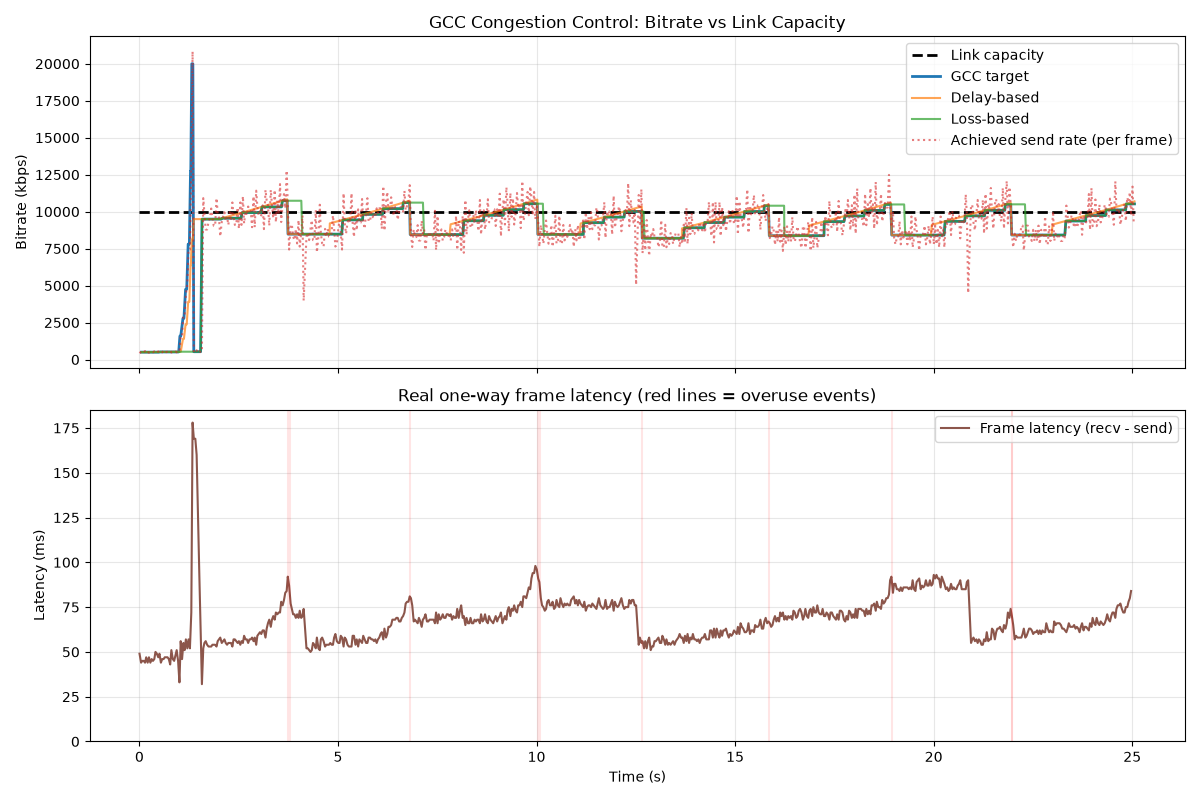
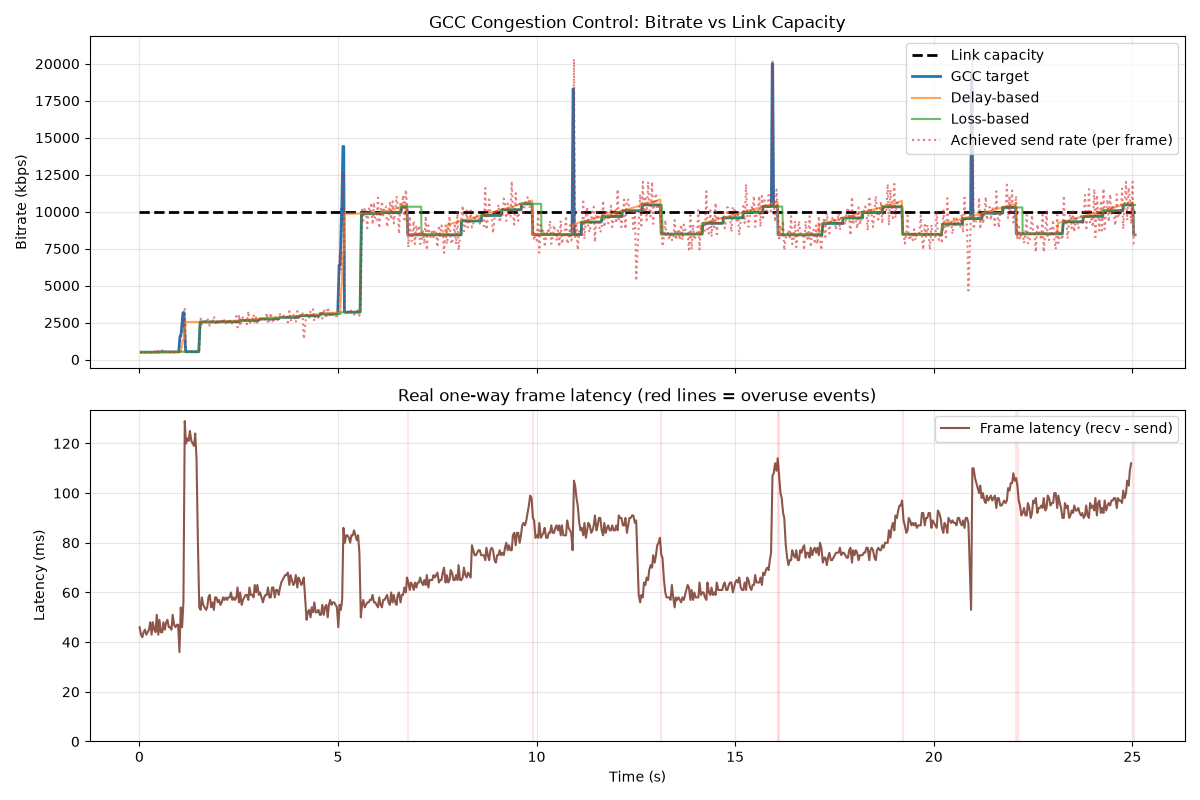
Align probe controller with WebRTC: seed cluster + bounded periodic re-probe
The previous change (removing the chain cap) made GCC converge fast but wrong:
the chain doubled off link-capped probe measurements (probe 12732 -> measures
~10000 -> chains to 2x = 20000 -> sends 20 Mbps into a 10 Mbps pipe), flooding
the bottleneck, triggering overuse, and collapsing to ~3 Mbps followed by a
slow recovery. Net: severe queueing and a saw that defeated the point of
probing. Compared against docs/webrtc_reference, WebRTC instead jumps once to
~4 Mbps, climbs via AIMD for ~5s, then re-probes with a SHORT chain to ~9 Mbps.

Three root causes, all in bandwidth_prober.cc:

1. Chain ran off a link-capped measurement with no hop bound. Padding fills
   every probe to 100%, so probes always measured the full link rate and the
   0.7 ratio never fell enough to stop the chain until we were already past
   the cap.
2. Seeds compounded: the 6x seed used the estimate already committed by the 3x
   seed, so 3x/6x became two near-cap jumps instead of a 3x/6x cluster.
3. No periodic re-probe. Post-seed discovery relied on WebRTC ALR probing,
   which never fires for a greedy (mock/CBR) encoder that is never
   application-limited — so convergence stalled on 8%/s AIMD.

Fixes:
- ProbeType {kSeed, kPeriodic, kDropRecovery}. Only periodic/recovery probes
  chain; seed probes commit and hand off to AIMD (restores the intent of the
  initial_probing_done_ gate my prior commit wrongly removed).
- Chain bounded to kMaxChainHops (2) per probe session, so one probe cannot
[…]

diff --git a/transmission/bandwidth_prober.cc b/transmission/bandwidth_prober.cc
@@ -19,6 +19,10 @@ BandwidthProber::BandwidthProber()
       max_bitrate_kbps_(30000),
       initial_probing_done_(false),
       exponential_probe_count_(0),
+      seed_base_kbps_(0),
+      current_probe_type_(ProbeType::kSeed),
+      chain_hops_(0),
+      last_periodic_probe_ms_(0),
       application_limited_(false),
       last_alr_probe_ms_(0),
       pre_drop_bitrate_kbps_(0),
@@ -32,6 +36,7 @@ BandwidthProber::BandwidthProber()
       fake_clock_ms_(nullptr) {
   int64_t now = NowMs();
   last_alr_probe_ms_ = now;
+  last_periodic_probe_ms_ = now;
   bitrate_drop_time_ms_ = now;
   probe_start_ms_ = now;
   last_overuse_time_ms_ = now;
@@ -45,6 +50,7 @@ void BandwidthProber::SetClockForTesting(int64_t* clock_ms) {
   if (clock_ms) {
     int64_t now = *clock_ms;
     last_alr_probe_ms_ = now;
+    last_periodic_probe_ms_ = now;
     bitrate_drop_time_ms_ = now;
     probe_start_ms_ = now;
     last_overuse_time_ms_ = now - 2000;  // allow probing immediately in tests
@@ -122,26 +128,28 @@ void BandwidthProber::OnProbeResult(int estimated_kbps, bool success) {
     LOG(INFO) << "[Prober] Probe succeeded: target=" << probe_target_kbps_
               << " estimated=" << estimated_kbps << " kbps";
 
-    // Continue the exponential chain as long as the measured rate keeps
-    // clearing the further-probe threshold and there is still headroom below
-    // the ceiling. This is NOT gated on initial_probing_done_ (matching
-    // WebRTC's SetEstimatedBitrate chain): the 3x/6x seed probes only bootstrap
-    // discovery; the chain that follows must keep doubling from each measured
-    // rate until the link saturates (ratio < threshold) or we approach max.
-    // Gating it on initial_probing_done_ was what capped convergence at the
-    // seed probes and forced the slow 8%/s AIMD ramp the rest of the way.
-    // (A low-ratio result here does NOT end initial probing: the sequential
-    // 6x seed in MaybeInitiateProbe still gets its turn — only an outright
-    // probe failure, handled below, stops the seeds.)
+    // Chaining rule (aligned with the WebRTC reference curve):
+    //   - Seed probes (3x/6x startup cluster) do NOT chain. They commit their
+    //     measured rate and hand control to AIMD, which is why the reference
+    //     jumps once to ~4 Mbps at startup and then climbs slowly — rather than
+    //     chaining straight to the ceiling and flooding the link.
+    //   - Periodic / drop-recovery probes MAY chain, but only up to
+    //     kMaxChainHops hops. Bounding the hop count stops a single probe
+    //     session from doubling all the way to 2x the link capacity (the
+    //     runaway that caused the overuse->collapse->slow-recovery cycle).
     double ratio = static_cast<double>(estimated_kbps) / probe_target_kbps_;
-    if (ratio >= kFurtherProbeThreshold &&
+    bool chainable = (current_probe_type_ != ProbeType::kSeed);
+    if (chainable && chain_hops_ < kMaxChainHops &&
+        ratio >= kFurtherProbeThreshold &&
         estimated_kbps < max_bitrate_kbps_ * 0.95) {
+      chain_hops_++;
       probe_target_kbps_ = std::min(
           estimated_kbps * kFurtherProbeMultiplier, max_bitrate_kbps_);
       state_ = State::kProbing;
       probe_start_ms_ = NowMs();
       pending_probes_.push_back({probe_target_kbps_, next_cluster_id_++});
-      LOG(INFO) << "[Prober] Further probe at " << probe_target_kbps_ << " kbps";
+      LOG(INFO) << "[Prober] Further probe (" << chain_hops_ << "/"
+                << kMaxChainHops << ") at " << probe_target_kbps_ << " kbps";
     }
 
     bitrate_drop_detected_ = false;
@@ -149,7 +157,11 @@ void BandwidthProber::OnProbeResult(int estimated_kbps, bool success) {
   } else {
     LOG(INFO) << "[Prober] Probe failed or no improvement: target="
               << probe_target_kbps_ << " estimated=" << estimated_kbps;
-    initial_probing_done_ = true;
+    // A failed seed still ends initial probing (hand off to AIMD); a failed
+    // periodic/recovery probe just returns to AIMD until the next interval.
+    if (current_probe_type_ == ProbeType::kSeed) {
+      initial_probing_done_ = true;
+    }
   }
 }
 
@@ -223,7 +235,20 @@ void BandwidthProber::MaybeInitiateProbe() {
     }
   }
 
-  // 3. ALR periodic probing
+  // 3. Periodic re-probing. After initial probing, search for headroom every
+  //    kPeriodicProbeIntervalMs — independent of the ALR flag, which never
+  //    fires for a greedy (mock/CBR) encoder. This is what drives convergence
+  //    up to the cap after the seed cluster + AIMD, mirroring WebRTC where an
+  //    ALR-limited real encoder gets a periodic probe on the same cadence.
+  if (estimated_bitrate_kbps_ <
+      max_bitrate_kbps_ * kPeriodicProbeMaxEstimateFraction) {
+    if (now - last_periodic_probe_ms_ >= kPeriodicProbeIntervalMs) {
+      InitiatePeriodicProbe();
+      return;
+    }
+  }
+
+  // 4. ALR periodic probing
   if (application_limited_) {
     if (now - last_alr_probe_ms_ >= kAlrProbeIntervalMs) {
       InitiateAlrProbe();
@@ -232,15 +257,42 @@ void BandwidthProber::MaybeInitiateProbe() {
   }
 }
 
+void BandwidthProber::InitiatePeriodicProbe() {
+  probe_target_kbps_ = std::min(
+      static_cast<int>(estimated_bitrate_kbps_ * kPeriodicProbeMultiplier),
+      max_bitrate_kbps_);
+
+  if (probe_target_kbps_ <= estimated_bitrate_kbps_) {
+    last_periodic_probe_ms_ = NowMs();
+    return;
+  }
+
+  current_probe_type_ = ProbeType::kPeriodic;
+  chain_hops_ = 0;
+  state_ = State::kProbing;
+  probe_start_ms_ = NowMs();
+  last_periodic_probe_ms_ = probe_start_ms_;
+  pending_probes_.push_back({probe_target_kbps_, next_cluster_id_++});
+
+  LOG(INFO) << "[Prober] Periodic probe at " << probe_target_kbps_
+            << " kbps (est=" << estimated_bitrate_kbps_ << ")";
+}
+
 void BandwidthProber::InitiateExponentialProbe() {
+  // Snapshot the estimate when the seed cluster begins, and take BOTH seeds
+  // off that base. Using the live estimate for the 6x seed would compound: the
+  // 3x probe commits a higher estimate first, so 6x of THAT lands near the
+  // ceiling in two jumps. WebRTC fires 3x and 6x of the same start rate.
+  if (exponential_probe_count_ == 0) {
+    seed_base_kbps_ = estimated_bitrate_kbps_;
+  }
+
   int multiplier = (exponential_probe_count_ == 0)
       ? kFirstExponentialMultiplier
       : kSecondExponentialMultiplier;
 
-  // Exponential startup probes are already proportional to the current estimate
-  // (3×/6×) and chain via measured commits, so they self-limit — no extra cap.
   probe_target_kbps_ = std::min(
-      estimated_bitrate_kbps_ * multiplier, max_bitrate_kbps_);
+      seed_base_kbps_ * multiplier, max_bitrate_kbps_);
 
   if (estimated_bitrate_kbps_ >= max_bitrate_kbps_ * 0.95) {
     initial_probing_done_ = true;
@@ -252,13 +304,15 @@ void BandwidthProber::InitiateExponentialProbe() {
     initial_probing_done_ = true;
   }
 
+  current_probe_type_ = ProbeType::kSeed;
+  chain_hops_ = 0;
   state_ = State::kProbing;
   probe_start_ms_ = NowMs();
   pending_probes_.push_back({probe_target_kbps_, next_cluster_id_++});
 
   LOG(INFO) << "[Prober] Exponential probe #" << exponential_probe_count_
-            << " at " << probe_target_kbps_ << " kbps (est="
-            << estimated_bitrate_kbps_ << ")";
+            << " at " << probe_target_kbps_ << " kbps (seed_base="
+            << seed_base_kbps_ << ")";
 }
 
 void BandwidthProber::InitiateAlrProbe() {
@@ -270,6 +324,8 @@ void BandwidthProber::InitiateAlrProbe() {
     return;
   }
 
+  current_probe_type_ = ProbeType::kPeriodic;
+  chain_hops_ = 0;
   state_ = State::kProbing;
   probe_start_ms_ = NowMs();
   last_alr_probe_ms_ = probe_start_ms_;
@@ -294,6 +350,8 @@ void BandwidthProber::InitiateDropRecoveryProbe() {
     return;
   }
 
+  current_probe_type_ = ProbeType::kDropRecovery;
+  chain_hops_ = 0;
   state_ = State::kProbing;
   probe_start_ms_ = NowMs();
   pending_probes_.push_back({probe_target_kbps_, next_cluster_id_++});

diff --git a/tests/bandwidth_prober_test.cc b/tests/bandwidth_prober_test.cc
@@ -41,20 +41,20 @@ TEST_F(BandwidthProberTest, DoesNotProbeAfterRecentOveruse) {
   EXPECT_EQ(prober.GetState(), BandwidthProber::State::kIdle);
 }
 
-TEST_F(BandwidthProberTest, SuccessfulProbeTriggersNextProbe) {
-  prober.GetEffectiveBitrateKbps();  // 3x probe at 15000
+TEST_F(BandwidthProberTest, SeedProbeDoesNotChain) {
+  // Seed (startup) probes commit their measured rate and hand off to AIMD.
+  // They must NOT fire a further probe even on a strong result — matching the
+  // WebRTC reference, where the initial 3x/6x cluster jumps once and then lets
+  // AIMD climb, rather than chaining straight to the ceiling. (Chaining is
+  // reserved for periodic / drop-recovery probes; see PeriodicProbeChains*.)
+  prober.GetEffectiveBitrateKbps();  // seed #1 at 3x = 15000
   auto probes = prober.GetPendingProbes();
   ASSERT_EQ(probes.size(), 1u);
   EXPECT_EQ(probes[0].target_bitrate_kbps, 15000);
 
-  // Report success: estimated 12000 (12000/15000 = 0.8 > 0.7 threshold)
+  // Strong result 12000/15000 = 0.8 >= 0.7, but a seed still does not chain.
   prober.OnProbeResult(12000, true);
-  // Should trigger further probe at 2x 12000 = 24000
-  EXPECT_EQ(prober.GetState(), BandwidthProber::State::kProbing);
-
-  auto probes2 = prober.GetPendingProbes();
-  ASSERT_EQ(probes2.size(), 1u);
-  EXPECT_EQ(probes2[0].target_bitrate_kbps, 24000);
+  EXPECT_EQ(prober.GetState(), BandwidthProber::State::kIdle);
 }
 
 TEST_F(BandwidthProberTest, SecondExponentialProbeAt6x) {
@@ -87,39 +87,37 @@ TEST_F(BandwidthProberTest, SecondExponentialProbeAt6x) {
   EXPECT_EQ(probes2[0].target_bitrate_kbps, 30000);
 }
 
-TEST_F(BandwidthProberTest, ExponentialChainRunsPastSeedProbesToSaturation) {
-  // Regression: the further-probe chain must keep doubling from each measured
-  // rate until the link saturates or we approach max — it must NOT stop after
-  // the 2 seed probes. Previously initial_probing_done_ (set once the seed
-  // count hit the cap) gated the chain off, capping convergence at the seeds.
+TEST_F(BandwidthProberTest, PeriodicProbeChainsUpToHopCap) {
+  // A periodic probe MAY chain (unlike a seed), but only up to kMaxChainHops
+  // (2) further hops. Bounding the hop count is what stops one probe session
+  // from doubling all the way to 2x the link capacity and flooding the pipe.
   prober.SetMaxBitrate(30000);
-  prober.SetEstimatedBitrate(1000);
+  prober.SetEstimatedBitrate(2000);
+  prober.OnOveruseDetected();  // finish initial probing
 
-  // Seed probe #1 at 3x = 3000.
+  // Trigger the periodic probe: 2x estimate = 4000.
+  AdvanceMs(5100);
   int r = prober.GetEffectiveBitrateKbps();
-  EXPECT_EQ(r, 3000);
+  EXPECT_EQ(r, 4000);
   prober.GetPendingProbes();
-  // Strong result (2700/3000 = 0.9 >= 0.7) → chain to 2x = 5400.
-  prober.OnProbeResult(2700, true);
+
+  // Hop 1: strong result 3600/4000 = 0.9 → chain to 2x = 7200.
+  prober.OnProbeResult(3600, true);
   EXPECT_EQ(prober.GetState(), BandwidthProber::State::kProbing);
   auto p2 = prober.GetPendingProbes();
   ASSERT_EQ(p2.size(), 1u);
-  EXPECT_EQ(p2[0].target_bitrate_kbps, 5400);
+  EXPECT_EQ(p2[0].target_bitrate_kbps, 7200);
 
-  // Chain continues: 4860/5400 = 0.9 → 2x = 9720.
-  prober.OnProbeResult(4860, true);
+  // Hop 2: strong result 6480/7200 = 0.9 → chain to 2x = 12960 (last hop).
+  prober.OnProbeResult(6480, true);
   EXPECT_EQ(prober.GetState(), BandwidthProber::State::kProbing);
   auto p3 = prober.GetPendingProbes();
   ASSERT_EQ(p3.size(), 1u);
-  EXPECT_EQ(p3[0].target_bitrate_kbps, 9720);
+  EXPECT_EQ(p3[0].target_bitrate_kbps, 12960);
 
-  // And again: 8748/9720 = 0.9 → 2x = 17496. This is the 4th probe overall,
-  // well past the old 2-seed cap — proving the chain is uncapped.
-  prober.OnProbeResult(8748, true);
-  EXPECT_EQ(prober.GetState(), BandwidthProber::State::kProbing);
-  auto p4 = prober.GetPendingProbes();
-  ASSERT_EQ(p4.size(), 1u);
-  EXPECT_EQ(p4[0].target_bitrate_kbps, 17496);
+  // Hop cap reached: even a strong result 11664/12960 = 0.9 must NOT chain.
+  prober.OnProbeResult(11664, true);
+  EXPECT_EQ(prober.GetState(), BandwidthProber::State::kIdle);
 }
 
 TEST_F(BandwidthProberTest, ChainStopsWhenLinkSaturates) {
@@ -172,22 +170,23 @@ TEST_F(BandwidthProberTest, NoProbeWhenNearMax) {
   EXPECT_EQ(prober.GetState(), BandwidthProber::State::kIdle);
 }
 
-TEST_F(BandwidthProberTest, AlrProbingAfterInterval) {
-  // Complete initial probing
-  prober.OnOveruseDetected();
+TEST_F(BandwidthProberTest, PeriodicProbingAfterInterval) {
+  // After initial probing completes, the prober re-probes every
+  // kPeriodicProbeIntervalMs at 2x the current estimate — independent of the
+  // ALR flag (a greedy encoder is never application-limited, so ALR alone
+  // would never fire and convergence would stall on AIMD).
+  prober.OnOveruseDetected();  // completes initial probing
+
+  // Not enough time elapsed since the last probe yet.
   AdvanceMs(1100);
-
-  // Enter ALR
-  prober.OnApplicationLimited();
-
-  // Not enough time yet
   int rate = prober.GetEffectiveBitrateKbps();
   EXPECT_EQ(rate, 5000);
+  EXPECT_EQ(prober.GetState(), BandwidthProber::State::kIdle);
 
-  // Advance past ALR interval
+  // Past the periodic interval → probe at 2x = 10000.
   AdvanceMs(5100);
   rate = prober.GetEffectiveBitrateKbps();
-  EXPECT_EQ(rate, 7500);  // 1.5x
+  EXPECT_EQ(rate, 10000);  // 2x estimate
   EXPECT_EQ(prober.GetState(), BandwidthProber::State::kProbing);
 }
 

diff --git a/transmission/bandwidth_prober.h b/transmission/bandwidth_prober.h
@@ -35,6 +35,12 @@ class BandwidthProber {
  public:
   enum class State { kIdle, kProbing, kWaitingForResult };
 
+  // Origin of the currently active probe. Only kPeriodic/kDropRecovery probes
+  // are allowed to chain (fire a further probe from their result); the kSeed
+  // startup probes commit their measured rate and hand off to AIMD, matching
+  // WebRTC where the initial 3x/6x cluster does not self-extend indefinitely.
+  enum class ProbeType { kSeed, kPeriodic, kDropRecovery };
+
   struct ProbeCluster {
     int target_bitrate_kbps;
     int cluster_id;
@@ -87,6 +93,7 @@ class BandwidthProber {
   int64_t NowMs() const;
   void MaybeInitiateProbe();
   void InitiateExponentialProbe();
+  void InitiatePeriodicProbe();
   void InitiateAlrProbe();
   void InitiateDropRecoveryProbe();
   int ComputeProbeTarget() const;
@@ -104,16 +111,39 @@ class BandwidthProber {
   int estimated_bitrate_kbps_;
   int max_bitrate_kbps_;
 
-  // Initial exponential probing
+  // Initial exponential probing. The 3x and 6x seeds are BOTH taken off the
+  // estimate captured when the first seed fires (seed_base_kbps_), so they land
+  // at 3x/6x of the startup rate as a cluster — not 6x of the already-committed
+  // 3x result (which would compound to near-cap in two jumps).
   bool initial_probing_done_;
   int exponential_probe_count_;
-  static constexpr int kFirstExponentialMultiplier = 3;   // First probe: 3x
-  static constexpr int kSecondExponentialMultiplier = 6;  // Second probe: 6x
+  int seed_base_kbps_;  // estimate snapshot when the seed cluster began
+  static constexpr int kFirstExponentialMultiplier = 3;   // First seed: 3x
+  static constexpr int kSecondExponentialMultiplier = 6;  // Second seed: 6x
   static constexpr int kMaxExponentialProbes = 2;
   static constexpr double kFurtherProbeThreshold = 0.7;   // Success if est > 0.7 * target
   static constexpr int kFurtherProbeMultiplier = 2;       // Next probe: 2x successful est
 
-  // ALR periodic probing
+  // Chain control: which probe is active, and how many further hops it has
+  // taken. A periodic/recovery probe may chain at most kMaxChainHops times so a
+  // single probe session cannot run all the way to 2x the link capacity (which
+  // is what flooded the pipe and forced the overuse→collapse cycle).
+  ProbeType current_probe_type_;
+  int chain_hops_;
+  static constexpr int kMaxChainHops = 2;
+
+  // Periodic re-probing. After initial probing, re-probe every
+  // kPeriodicProbeIntervalMs at kPeriodicProbeMultiplier x the current estimate
+  // to search for freed-up headroom. Decoupled from the ALR/application-limited
+  // flag: a greedy encoder (mock, or CBR) is never application-limited, so the
+  // WebRTC ALR trigger would never fire and convergence would stall on AIMD.
+  int64_t last_periodic_probe_ms_;
+  static constexpr int kPeriodicProbeIntervalMs = 5000;
+  static constexpr double kPeriodicProbeMultiplier = 2.0;
+  // Don't bother re-probing once we're already near the ceiling.
+  static constexpr double kPeriodicProbeMaxEstimateFraction = 0.95;
+
+  // ALR periodic probing (kept for real application-limited encoders).
   bool application_limited_;
   int64_t last_alr_probe_ms_;
   static constexpr int kAlrProbeIntervalMs = 5000;
